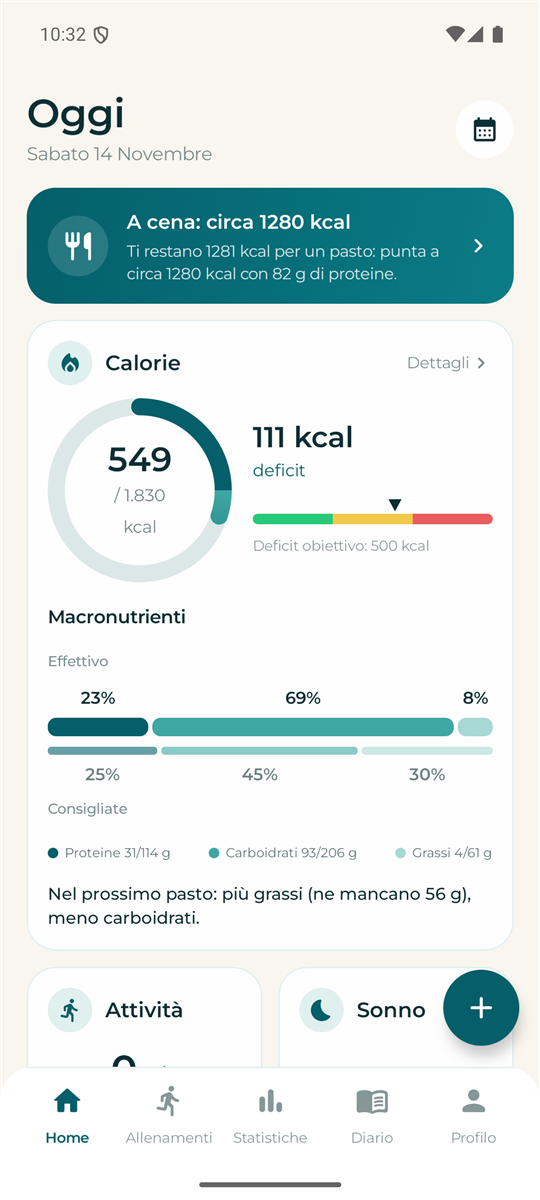
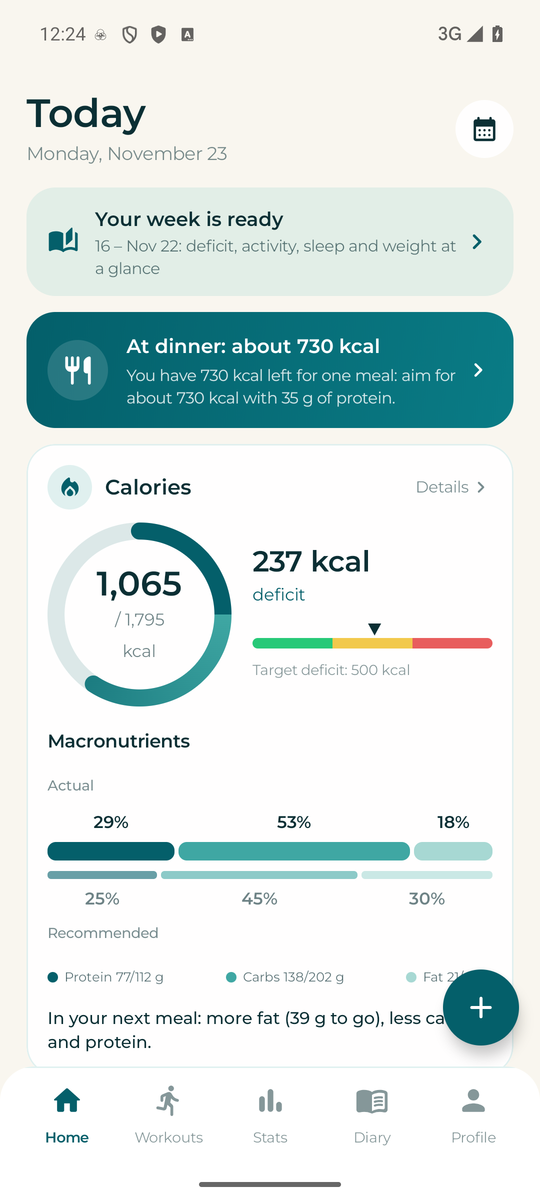
README e pagina web per la 1.1.0
- README: pesi e corpo libero, inserimento veloce dei pasti, giornate complete,
  riepilogo del lunedì, 6 lingue e kg/lb; tolta la frase "l'app è in italiano";
  privacy con GitHub (avviso versioni) e Google Moduli (statistiche facoltative).
- Screenshot in inglese con dati di prova: Home, Registra pasto, carichi della forza.
- Pagina web: pesi e corpo libero nella sezione della seduta.

diff --git a/docs/index.html b/docs/index.html
@@ -298,7 +298,7 @@
         <div class="num">03 · La corsa</div>
         <h2>Corri. La seduta si segna da sola</h2>
         <p>Registri la corsa con il tuo orologio, come sempre. Quando apri l'app la seduta di oggi è già fatta, con i tuoi numeri accanto all'obiettivo.</p>
-        <ul><li>Nessun inserimento a mano</li><li>Obiettivo e risultato</li></ul>
+        <ul><li>Nessun inserimento a mano</li><li>Obiettivo e risultato</li><li>Anche pesi e corpo libero, con gli esercizi e i carichi</li></ul>
       </article>
       <article class="step" data-i="3">
         <div class="num">04 · L'analisi</div>

diff --git a/README.md b/README.md
@@ -1,6 +1,6 @@
 # UNICUM
 
-**Your health. Unified.** An Android app that brings nutrition, activity, sleep, recovery and your running plan into one calm screen.
+**Your health. Unified.** An Android app that brings nutrition, activity, sleep, recovery and your training plan (running, weights, bodyweight) into one calm screen.
 
 *🇮🇹 [Versione italiana più sotto](#italiano)*
 
@@ -15,30 +15,32 @@
 
 <p>
   <img src="docs/screenshots/05-home.png" width="200" alt="Home: calories, deficit and macros">
+  <img src="docs/screenshots/08-log-meal.png" width="200" alt="Logging a meal: foods you usually eat, quick add and the meal bar">
+  <img src="docs/screenshots/09-strength.png" width="200" alt="Strength: loads per exercise over time">
   <img src="docs/screenshots/06-training-plan.png" width="200" alt="Training plan">
-  <img src="docs/screenshots/03-plan-source.png" width="200" alt="Onboarding: choose where your plan comes from">
   <img src="docs/screenshots/04-pdf-import.png" width="200" alt="Import a training plan from a PDF">
 </p>
 
-Your ring tracks your sleep, your watch tracks your runs, a food app tracks your meals, and your coach's plan lives in a PDF or in Notion. UNICUM reads all of them and shows **one day, one picture**: what you ate, what you burned, how you slept, how recovered you are, and what today's run should be.
+Your ring tracks your sleep, your watch tracks your runs, a food app tracks your meals, and your coach's plan lives in a PDF or in Notion. UNICUM reads all of them and shows **one day, one picture**: what you ate, what you burned, how you slept, how recovered you are, and what today's session should be.
 
-> The app is in Italian for now. English translations are welcome. See [Contributing](#contributing).
+> Available in English, Italian, Spanish, French, German and Portuguese, including the food database. Weight, height and loads in kg/cm or lb/ft.
 
 ## Features
 
-- **Nutrition**: daily calorie goal from your BMR (Mifflin-St Jeor) and activity level, macros, ~300 built-in foods, barcode scanner and online search via Open Food Facts. Meals are written back to Health Connect.
+- **Nutrition**: daily calorie goal from your BMR (Mifflin-St Jeor) and activity level, macros, ~300 built-in foods in 6 languages, barcode scanner and online search via Open Food Facts. Fast logging: the foods you usually eat at that meal come first, + adds your usual amount in one tap, saved meals, "repeat from yesterday", undo. Mark a day as complete so averages only use fully logged days. Meals are written back to Health Connect.
 - **Deficit, honestly**: your resting burn accrues through the day instead of being subtracted all at once in the morning, so the balance is real at any hour.
 - **Runs**: every run from Health Connect with splits, heart-rate zones, pace, cadence, elevation and route map. Duplicates from different apps are merged. Intervals can be split from the plan's structure.
+- **Weights and bodyweight**: duration, calories and heart rate from your watch; exercises, sets, reps and loads from your plan (or as you actually did them), with each exercise's loads over time.
 - **Training plan** from three sources:
   - **Notion**: reads your plan database and, optionally, your run log. See [`docs/notion/`](docs/notion/) for the exact schema and importable CSV examples.
   - **PDF**: imports sessions from your coach's or app's PDF (dates or "week + day", type, km, minutes, pace, RPE), with an editable preview.
   - **By hand**: add future sessions yourself.
 
-  A planned session is marked done automatically when a run is recorded on the same day.
+  A planned session is marked done automatically when a workout of the same sport is recorded on the same day.
 - **Recovery**: an estimate based on nightly HRV, sleep and measured training load. It detects by itself when your HRV changes scale (for example, a new device) and ignores the old values.
 - **Goals and estimates**: 5/7/10 km time estimates from heart rate and your best efforts (Riegel), short- and long-term running goals with projections.
 - **Shoes**: mileage per pair, with a default pair assigned automatically.
-- **Widgets, reminders, light and dark theme, local backup and restore.**
+- **Widgets, meal reminders, a Monday summary of your week, light and dark theme, local backup and restore.**
 
 ## Privacy
 
@@ -47,13 +49,15 @@ There is no account and no server. Your data stays on your phone, in a local dat
 - **Health Connect**, on the device: read access, plus writing your meals;
 - **Notion API**, only if you connect it, with a read-only integration token you create;
 - **Open Food Facts**, for food search and barcodes;
-- **OpenStreetMap tiles**, for route maps.
+- **OpenStreetMap tiles**, for route maps;
+- **GitHub**, at most once a day, to check whether a new version is out;
+- **Google Forms**, only if you agree to send anonymous usage statistics (which screens you open, never your data).
 
 ## Install
 
 1. Download the latest APK from [Releases](../../releases).
 2. Install [Health Connect](https://play.google.com/store/apps/details?id=com.google.android.apps.healthdata). It is built into Android 14 and later.
-3. Open UNICUM, answer a few questions, then connect Health Connect from **Profilo**.
+3. Open UNICUM, answer a few questions and connect Health Connect (you can also do it later from **Profile**).
 
 Your watch or ring app (Samsung Health, Garmin via Health Sync, Fitbit, Oura, Ultrahuman, …) must share its data with Health Connect.
 
@@ -116,22 +120,23 @@ The name **UNICUM** and its logo are not covered by the license. A modified vers
 <a name="italiano"></a>
 ## 🇮🇹 Italiano
 
-**UNICUM** riunisce in una sola schermata alimentazione, attività, sonno, recupero e il tuo programma di corsa.
+**UNICUM** riunisce in una sola schermata alimentazione, attività, sonno, recupero e il tuo programma di allenamento (corsa, pesi, corpo libero).
 
 L'anello registra il sonno, l'orologio le corse, un'app i pasti, e il programma dell'allenatore sta in un PDF o su Notion. UNICUM li legge tutti e ti mostra la giornata in un colpo d'occhio: cosa hai mangiato, quanto hai consumato, come hai dormito, quanto sei recuperato e che corsa ti aspetta oggi.
 
 **Cosa fa**
-- **Calorie e macro**: obiettivo fisso calcolato dal metabolismo basale e dal livello di attività; alimenti già pronti, codice a barre e Open Food Facts.
+- **Calorie e macro**: obiettivo fisso calcolato dal metabolismo basale e dal livello di attività; alimenti già pronti, codice a barre e Open Food Facts. Inserimento veloce: prima quello che mangi di solito in quel pasto, il + aggiunge la quantità abituale, pasti salvati, "Ripeti da ieri", annulla. Giornate complete per medie affidabili.
 - **Deficit reale**: il consumo a riposo matura durante la giornata.
 - **Corse da Health Connect**: parziali, zone di frequenza cardiaca, ritmo, mappa. Le copie arrivate da app diverse vengono unite.
+- **Pesi e corpo libero**: durata, calorie e battito dall'orologio; esercizi, serie, ripetizioni e carichi dal programma (o come li hai fatti), con i kg di ogni esercizio nel tempo.
 - **Programma di allenamento**:
   - da **Notion**: schema in [`docs/notion/`](docs/notion/);
   - da **PDF**;
   - **scritto a mano**.
 
-  Una seduta si segna fatta da sola quando c'è una corsa nello stesso giorno.
+  Una seduta si segna fatta da sola quando c'è un allenamento dello stesso sport nello stesso giorno.
 - **Recupero stimato**: da HRV notturna, sonno e carico misurato degli allenamenti.
-- **Stime 5/7/10 km, obiettivi di corsa, scarpe, widget, tema scuro, backup.**
+- **Stime 5/7/10 km, obiettivi di corsa, scarpe, widget, riepilogo del lunedì, tema scuro, backup. In 6 lingue, con kg/cm o lb/ft.**
 
 **🧪 Cerco tester.** Per ora la prova funziona così: scarichi l'APK dalle [Releases](../../releases/latest), usi l'app e mi scrivi com'è andata, [qui su GitHub](../../issues/new/choose) oppure [in privato con un modulo](https://docs.google.com/forms/d/e/1FAIpQLSejujvTR2J8jWqYPyPMps9YFfEggqCUqc0QjBhuOft_-t1yxA/viewform). Se trovi un problema o un PDF che l'app non legge, è il messaggio più utile.
 
@@ -143,7 +148,7 @@ L'anello registra il sonno, l'orologio le corse, un'app i pasti, e il programma 
 1. Scarica l'APK da [Releases](../../releases).
 2. Installa Health Connect (su Android 14 e successivi è già presente).
 3. Apri l'app e rispondi alle domande del primo avvio.
-4. Collega Health Connect dal Profilo.
+4. Collega Health Connect nel primo avvio (o dopo, dal Profilo).
 
 **Compilare**: vedi la sezione [Build](#build) qui sopra.
 
